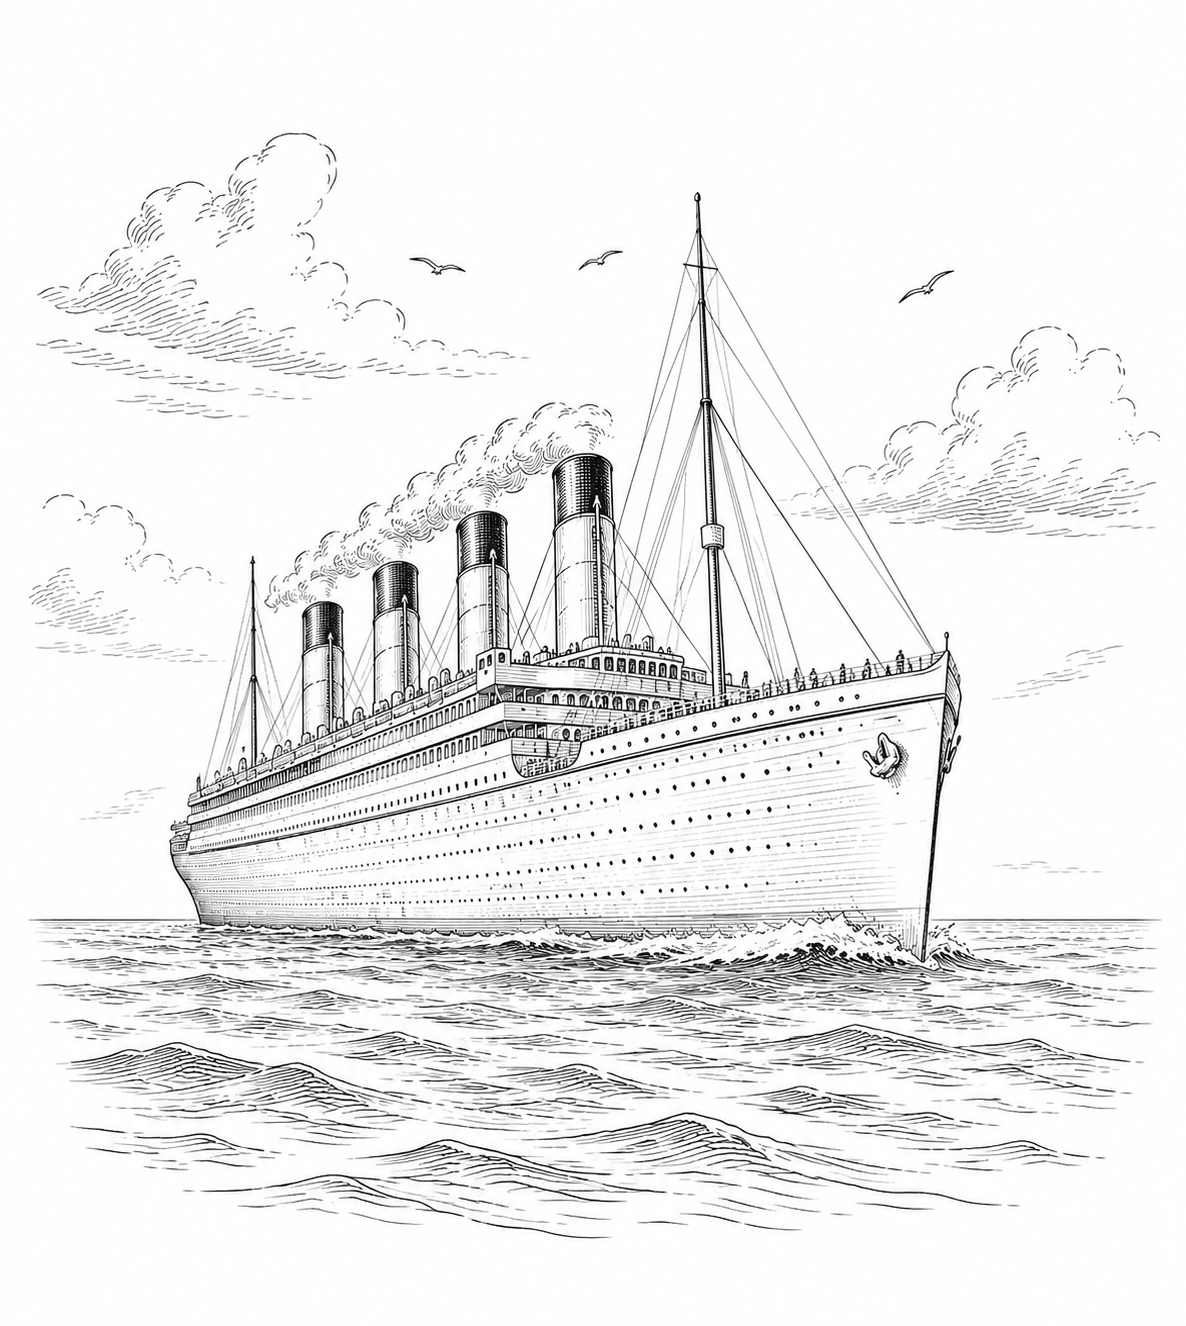
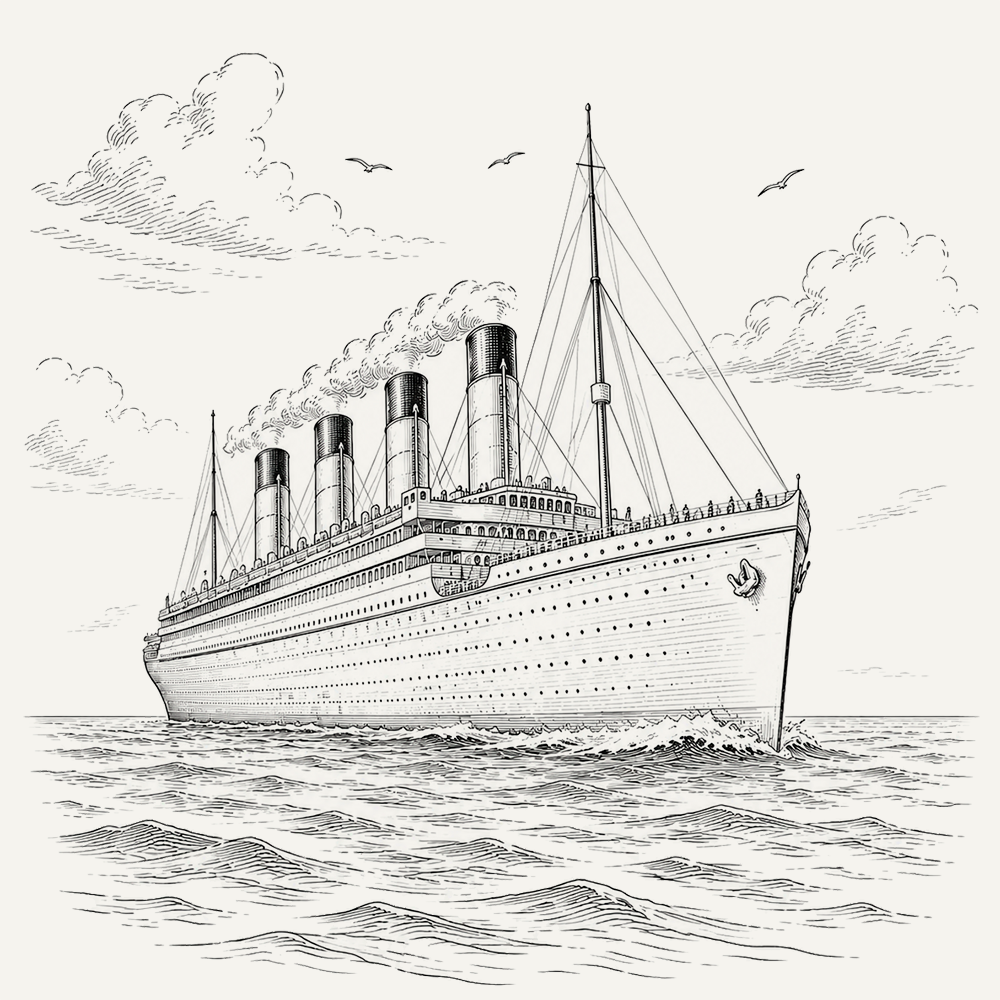
refactor: consistencia de la fuente y log de Gemini

diff --git a/api/src/services/geminiService.ts b/api/src/services/geminiService.ts
@@ -1,4 +1,5 @@
 import { GoogleGenerativeAI } from "@google/generative-ai";
+import { logGeminiRequest, type GeminiLogParams } from './geminiLog.js';
 import 'dotenv/config';
 
 const genAI = new GoogleGenerativeAI(process.env.GEMINI_API_KEY as string);
@@ -15,7 +16,8 @@ export const testGemini = async (prompt: string): Promise<string> => {
 export const continueStory = async (
   history: { role: string; parts: { text: string }[] }[],
   prompt: string,
-  systemInstruction?: string
+  systemInstruction?: string,
+  metadata?: Pick<GeminiLogParams, 'storyId' | 'userId'>
 ): Promise<string> => {
   const model = genAI.getGenerativeModel({
     model: "gemini-2.5-flash",
@@ -27,11 +29,46 @@ export const continueStory = async (
   });
 
   const TIMEOUT_MS = 25000;
-  const result = await Promise.race([
-    chat.sendMessage(prompt),
-    new Promise<never>((_, reject) =>
-      setTimeout(() => reject(new Error('La IA no respondió a tiempo')), TIMEOUT_MS)
-    )
-  ]);
-  return result.response.text();
+  const start = performance.now();
+
+  try {
+    const result = await Promise.race([
+      chat.sendMessage(prompt),
+      new Promise<never>((_, reject) =>
+        setTimeout(() => reject(new Error('La IA no respondió a tiempo')), TIMEOUT_MS)
+      )
+    ]);
+
+    const rawResponse = result.response.text();
+    const durationMs = Math.round(performance.now() - start);
+
+    logGeminiRequest({
+      storyId: metadata?.storyId,
+      userId: metadata?.userId,
+      systemPrompt: systemInstruction,
+      history,
+      userInput: prompt,
+      rawResponse,
+      durationMs,
+      success: true,
+    });
+
+    return rawResponse;
+  } catch (err) {
+    const durationMs = Math.round(performance.now() - start);
+    const errorMessage = err instanceof Error ? err.message : 'Error desconocido';
+
+    logGeminiRequest({
+      storyId: metadata?.storyId,
+      userId: metadata?.userId,
+      systemPrompt: systemInstruction,
+      history,
+      userInput: prompt,
+      durationMs,
+      success: false,
+      error: errorMessage,
+    });
+
+    throw err;
+  }
 };

diff --git a/api/src/services/geminiLog.ts b/api/src/services/geminiLog.ts
@@ -1,0 +1,49 @@
+import { appendFile, mkdir } from 'node:fs/promises';
+import { join } from 'node:path';
+
+const LOG_DIR = join(process.cwd(), 'logs');
+const LOG_FILE = join(LOG_DIR, 'gemini.log');
+
+async function ensureLogDir(): Promise<void> {
+  try {
+    await mkdir(LOG_DIR, { recursive: true });
+  } catch {
+    // directory already exists
+  }
+}
+
+export interface GeminiLogParams {
+  storyId?: string;
+  userId?: string;
+  systemPrompt?: string;
+  history: { role: string; parts: { text: string }[] }[];
+  userInput: string;
+  rawResponse?: string;
+  durationMs: number;
+  success: boolean;
+  error?: string;
+}
+
+export async function logGeminiRequest(params: GeminiLogParams): Promise<void> {
+  try {
+    await ensureLogDir();
+
+    const entry = {
+      timestamp: new Date().toISOString(),
+      event: 'gemini_request',
+      storyId: params.storyId ?? null,
+      userId: params.userId ?? null,
+      systemPrompt: params.systemPrompt ?? null,
+      history: params.history,
+      userInput: params.userInput,
+      rawResponse: params.rawResponse ?? null,
+      durationMs: params.durationMs,
+      success: params.success,
+      error: params.error ?? null,
+    };
+
+    await appendFile(LOG_FILE, JSON.stringify(entry) + '\n', 'utf-8');
+  } catch {
+    // silently fail — logging should never break the app
+  }
+}

diff --git a/api/src/modules/stories/domain/StoryInstanceRepository.ts b/api/src/modules/stories/domain/StoryInstanceRepository.ts
@@ -1,7 +1,22 @@
 export interface StoryInstanceRepository {
-  create(data: Partial<Record<string, unknown>>): Promise<Record<string, unknown>>;
-  findById(id: string): Promise<Record<string, unknown> | null>;
-  findByUser(userId: string): Promise<Record<string, unknown>[]>;
-  pushMessage(id: string, message: { role: 'user' | 'model'; text: string; timestamp?: Date }): Promise<void>;
-  updateSummary(id: string, summary: string): Promise<void>;
+  create(
+    data: Partial<Record<string, unknown>>
+  ): Promise<Record<string, unknown>>;
+
+  findById(
+    id: string
+  ): Promise<Record<string, unknown> | null>;
+
+  findByUser(
+    userId: string
+  ): Promise<Record<string, unknown>[]>;
+  
+  pushMessage(
+    id: string, 
+    message: { role: 'user' | 'model'; text: string; timestamp?: Date }
+  ): Promise<void>;
+  
+  updateSummary(
+    id: string, summary: string
+  ): Promise<void>;
 }

diff --git a/frontend/src/features/stories/components/StoryCard.scss b/frontend/src/features/stories/components/StoryCard.scss
@@ -7,18 +7,6 @@
   margin-bottom: 0.5rem;
   border-radius: 6px;
   cursor: pointer;
-  background: #ffffff;
-  transition: background 0.2s;
-
-  &:hover {
-    background: v.$color-accent;
-
-    .story-card__title,
-    .story-card__desc,
-    .story-card__meta {
-      color: v.$color-container;
-    }
-  }
 
   &--active {
     .story-card__title {

diff --git a/api/src/modules/stories/application/StoryInstanceUseCases.ts b/api/src/modules/stories/application/StoryInstanceUseCases.ts
@@ -3,6 +3,8 @@ import type { StoryTemplateRepository } from '../domain/StoryTemplateRepository.
 import { continueStory } from '../../../services/geminiService.js';
 
 const SYSTEM_PROMPT = `Eres el director de una partida de rol de narración. Describe la historia en segunda persona, como si el lector fuera el protagonista. Usa un tono inmersivo y descriptivo, estilo: "Estás en...", "De repente oyes...", "Frente a ti ves...".
+REGLAS DE LONGITUD CRUCIALES:
+1. Sé muy conciso. La NARRATIVA debe ocupar como máximo unas 40-50 palabras. No te extiendas.
 
 Responde siempre en el siguiente formato:
 <<NARRATIVA>>
@@ -88,7 +90,10 @@ export const chatWithStoryUseCase = (instanceRepo: StoryInstanceRepository) => {
     try {
       await instanceRepo.pushMessage(id, { role: 'user', text: userInput, timestamp: new Date() });
 
-      const aiResponse = await continueStory(history, prompt, SYSTEM_PROMPT);
+      const storyId = (story as Record<string, unknown>)._id as string;
+      const userId = (story as Record<string, unknown>).user as string;
+
+      const aiResponse = await continueStory(history, prompt, SYSTEM_PROMPT, { storyId, userId });
 
       const narrativeMatch = aiResponse.match(/<<NARRATIVA>>\s*([\s\S]*?)\s*<<RESUMEN>>/);
       const summaryMatch = aiResponse.match(/<<RESUMEN>>\s*([\s\S]*)/);

diff --git a/frontend/src/pages/story/StoryPage.scss b/frontend/src/pages/story/StoryPage.scss
@@ -18,7 +18,6 @@
 
   &__loading,
   &__error {
-    font-family: serif;
     color: v.$color-text;
     padding: 3rem;
     text-align: center;
@@ -31,7 +30,6 @@
   }
 
   &__title {
-    font-family: serif;
     font-size: v.$font-big;
     font-weight: normal;
     color: v.$color-text;
@@ -39,7 +37,6 @@
   }
 
   &__desc {
-    font-family: serif;
     font-size: v.$font-medium;
     color: v.$color-interact;
     margin: 0 0 1rem;
@@ -91,7 +88,6 @@
   }
 
   &__msg {
-    font-family: serif;
     font-size: v.$font-medium;
     line-height: 1.5;
     margin-bottom: 0.75rem;
@@ -129,7 +125,6 @@
   }
 
   &__error-msg {
-    font-family: serif;
     font-size: v.$font-medium;
     color: #b33;
     background: rgba(#b33, 0.08);
@@ -148,7 +143,6 @@
 
   &__input {
     width: 100%;
-    font-family: serif;
     font-size: v.$font-medium;
     color: v.$color-text;
     background: v.$color-container;
@@ -169,7 +163,6 @@
   }
 
   &__send {
-    font-family: serif;
     font-size: v.$font-medium;
     color: #fff;
     background: v.$color-interact;

diff --git a/frontend/src/pages/stories/StoriesPage.scss b/frontend/src/pages/stories/StoriesPage.scss
@@ -65,7 +65,6 @@
     background: none;
     border: 2px solid v.$color-interact;
     color: v.$color-interact;
-    font-family: sans-serif;
     font-size: v.$font-medium;
     font-weight: 700;
     text-transform: uppercase;